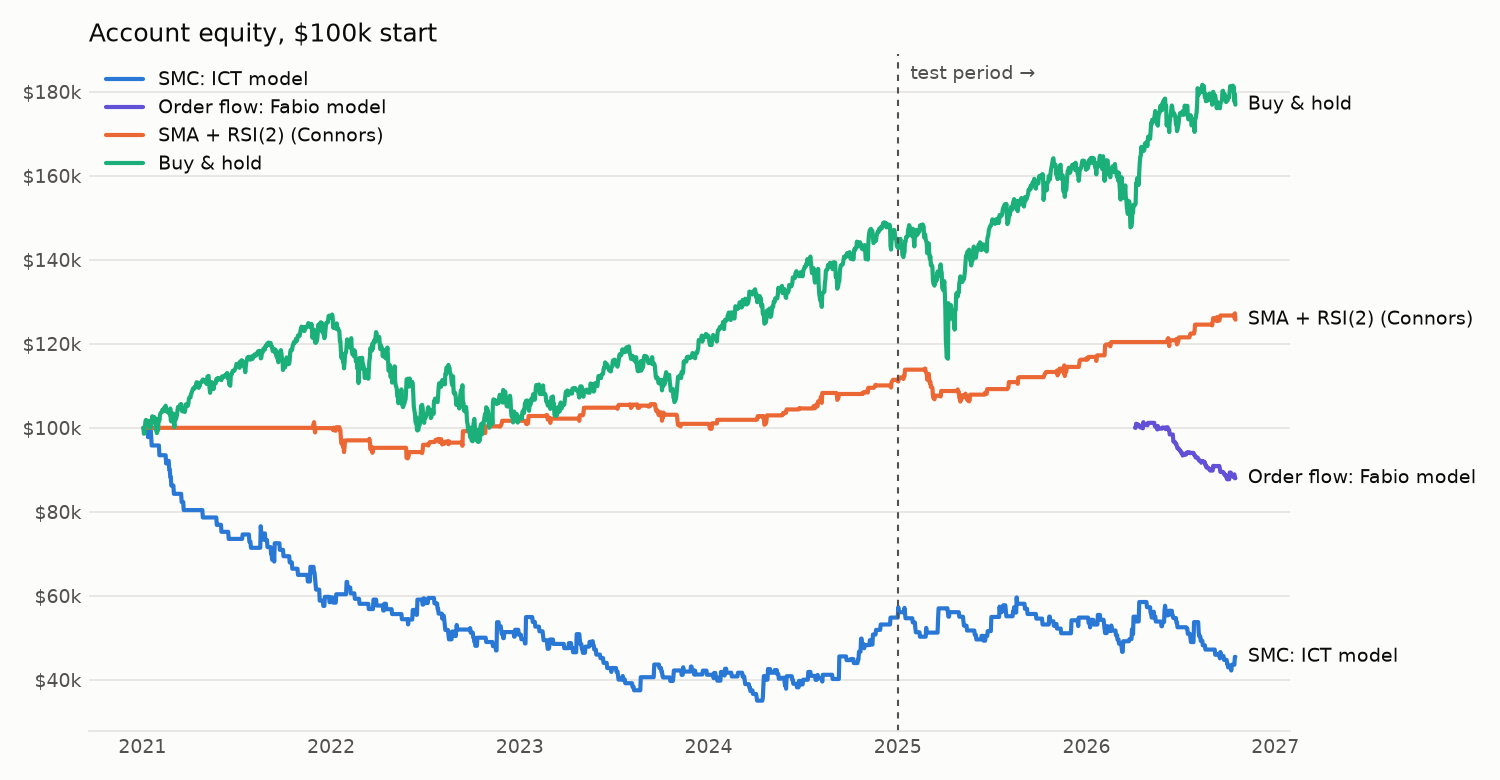
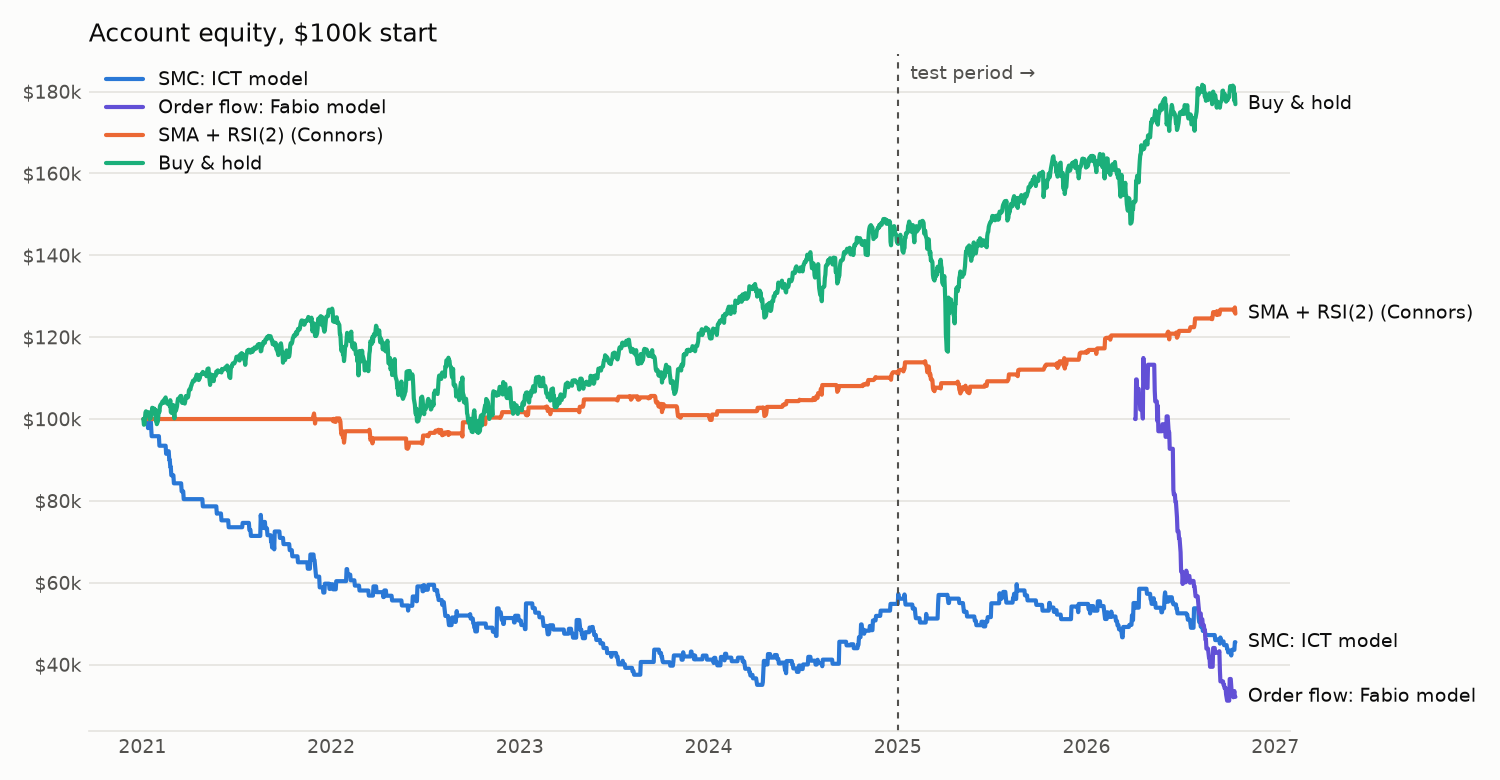
Order-flow strategy risks 2% per trade, like the SMC run

diff --git a/backtest/strategies/orderflow.py b/backtest/strategies/orderflow.py
@@ -22,7 +22,7 @@ MEAN REVERSION MODEL (failed breakout -> back to balance), longs described:
     6. Target    the balance POC (previous day's POC), >= 1R away
 
 Shorts are the mirror image. Entries 08:00-11:00 ET, one position at a time,
-0.5% risk, flat by 16:00 ET. Every value used on a bar is known at that bar's
+2% risk per trade (1-100 contracts), flat by 16:00 ET. Every value used on a bar is known at that bar's
 close. ORDERFLOW_RULES.md lists the source of each rule and marks the
 choices made where the sources don't give numbers.
 """
@@ -61,8 +61,8 @@ class FabioConfig:
     min_target_rr: float = 1.0
     poc_lookback_days: int = 20    # trend target: POCs of this many previous days
     swing_len: int = 2
-    risk_pct: float = 0.5
-    max_qty: int = 10
+    risk_pct: float = 2.0
+    max_qty: int = 100
     news_dates: tuple = ()
 
 

diff --git a/backtest/strategies/smc.py b/backtest/strategies/smc.py
@@ -13,7 +13,7 @@ Trader's (ICT) concepts, coded step by step. Runs on 1-minute bars.
     8. Target     the nearest untaken liquidity level at least 1R away
 
 (Longs described; shorts are the mirror image.) Entries 08:00-11:00 ET, one
-position at a time, 0.5% risk per trade, everything flat by 16:00 ET.
+position at a time, 2% risk per trade, everything flat by 16:00 ET.
 
 5-minute, 1-hour and 4-hour bars are built from COMPLETED 1-minute bars, so
 on every bar the strategy only knows what a trader watching live would know.

diff --git a/README.md b/README.md
@@ -11,12 +11,12 @@ Concepts (SMC) model built from the Inner Circle Trader's (ICT) concepts and
 Fabio Valentini's order-flow model, have an edge on S&P 500 futures once their
 rules are written down and tested properly?
 
-**Method:** Each method has fixed rules to enter a trade on  Micro E-mini
-S&P 500 (MES) futures using 1-minute candle data from January2021 to October 
-2026 including trading costs.The 2 strategies are compared with buy-and-hold, 
-a classic SMA + RSI strategy, and a **random-entry control** (500 runs with 
-the same stops, targets and costs but random entries). Rules were fixed 
-before the real data was run so there was no bias towards the specific 
+**Method:** Each method has fixed rules to enter a trade on Micro E-mini
+S&P 500 (MES) futures using 1-minute candle data from January 2021 to October
+2026, including trading costs. The 2 strategies are compared with buy-and-hold,
+a classic SMA + RSI strategy, and a **random-entry control** (500 runs with
+the same stops, targets and costs but random entries). Rules were fixed
+before the real data was run so there was no bias towards the specific
 chart's price action.
 
 **Findings:**
@@ -26,7 +26,7 @@ chart's price action.
   statistically clear loss. Most of it came from tight stops and costs;
   random entries with the same risk lost −0.31R.
 - **Buy-and-hold:** +76.9%, the highest return.
-- **SMA + RSI(2):** +25.7% with a similar Sharpe ratio (risk free return) to
+- **SMA + RSI(2):** +25.7% with a similar Sharpe ratio (return per unit of risk) to
   buy-and-hold (0.74 vs 0.69) and about a third of the drawdown.
 
 ![Account equity of each strategy, $100k start](docs/equity.png)
@@ -59,14 +59,14 @@ statistics are in [`docs/METHODOLOGY.md`](docs/METHODOLOGY.md).
 | **Buy & hold** | Jan 2021 – Oct 2026 | 1 | – | **+76.9%** | 0.69 | −23.7% |
 | SMA + RSI(2) (Connors) | Jan 2021 – Oct 2026 | 63 | – | +25.7% | **0.74** | **−8.5%** |
 | SMC: ICT model | Jan 2021 – Oct 2026 | 355 | −0.08 (−0.24 to +0.08) | −54.5% | −0.43 | −65.0% |
-| Order flow: Fabio model | Apr 2026 – Oct 2026 | 124 | −0.46 (−0.76 to −0.14) | −12.0% | −3.57 | −13.4% |
+| Order flow: Fabio model | Apr 2026 – Oct 2026 | 124 | −0.46 (−0.76 to −0.14) | −67.9% | −3.45 | −72.9% |
 
 - **R** is the ratio of the trade's profit to the amount risked. The 95%
   confidence interval comes from 10,000 bootstrap resamples of the trades.
   An interval that includes zero means the sample can't tell an edge from luck.
-- Compare **Sharpe and average R**, not dollar returns. The SMC run risked 2%
-  of equity per trade and the order-flow run 0.5%, so their returns are on
-  different scales. Buy-and-hold and RSI(2) have no stop, so no R.
+- Both day-trading models risk 2% of equity per trade (1–100 contracts).
+  Average R doesn't depend on position size; return, Sharpe and drawdown do.
+  Buy-and-hold and RSI(2) have no stop, so no R.
 - Order-flow data costs much more than candle data for SMC so that test covers
   6.5 months instead of 5.8 years.
 
@@ -113,7 +113,9 @@ Where setups dropped out at each step: see the [setup funnels](docs/METHODOLOGY.
 
 124 trades from April 5 to October 16, 2026 averaged **−0.46R** per trade
 after costs (95% CI −0.76 to −0.14), the only strategy whose loss is
-statistically clear. Win rate 19%, profit factor 0.53.
+statistically clear. Win rate 19%, profit factor 0.55. At 2% risk per trade,
+losing about half a risk unit per trade cost 68% of the account in six and a
+half months (max drawdown −73%).
 
 | | Avg R per trade |
 |---|---|
@@ -167,8 +169,8 @@ April 5 – October 16, 2026, the period covered by the order-flow data:
 |---|---|---|---|---|---|
 | **Buy & hold** | **+16.2%** | **1.94** | −5.1% | 0 | – |
 | SMA + RSI(2) (Connors) | +4.4% | 1.54 | −1.8% | 8 | – |
-| Order flow: Fabio model | −12.0% | −3.57 | −13.4% | 124 | −0.46 |
 | SMC: ICT model | −17.4% | −1.17 | −27.9% | 42 | −0.21 |
+| Order flow: Fabio model | −67.9% | −3.45 | −72.9% | 124 | −0.46 |
 
 ![The same six months for all four strategies, each restarted at $100k](docs/equity_orderflow_window.png)
 
@@ -242,7 +244,7 @@ In screenshots 1 and 2 the target edge of the position box was drawn half a
 point off (7730.00 and 7884.00 instead of 7730.50 and 7884.50); this doesn't
 change either outcome.
 
-To reproduce: download the data (see Quick start), then
+To reproduce: download the data (see [Reproduce it](#reproduce-it)), then
 `python run_backtest.py --split 2025-01-01`. The settings used are printed at
 the top of `results/summary.md`.
 

diff --git a/ORDERFLOW_RULES.md b/ORDERFLOW_RULES.md
@@ -69,7 +69,7 @@ Longs described; shorts are the mirror image.
 | Entry window | 08:00–11:00 ET for both models | project setting. The source says the trend model "works best in the New York session" and the mean-reversion model in London or quiet conditions; one window keeps the comparison with SMC fair **(choice)** |
 | Setup life | ends at the CME day boundary, on invalidation, or when it's used for an entry decision | **(choice)** |
 | Positions | one at a time; closed at 16:00 ET if still open | **(choice)** |
-| Risk | 0.5% of equity per trade, 1–10 contracts | project setting; the source uses "0.25% to 0.5%" |
+| Risk | 2% of equity per trade, 1–100 contracts | project setting, the same as the SMC run so the two are on one scale; the source itself uses "0.25% to 0.5%" |
 
 ## Left out on purpose
 
